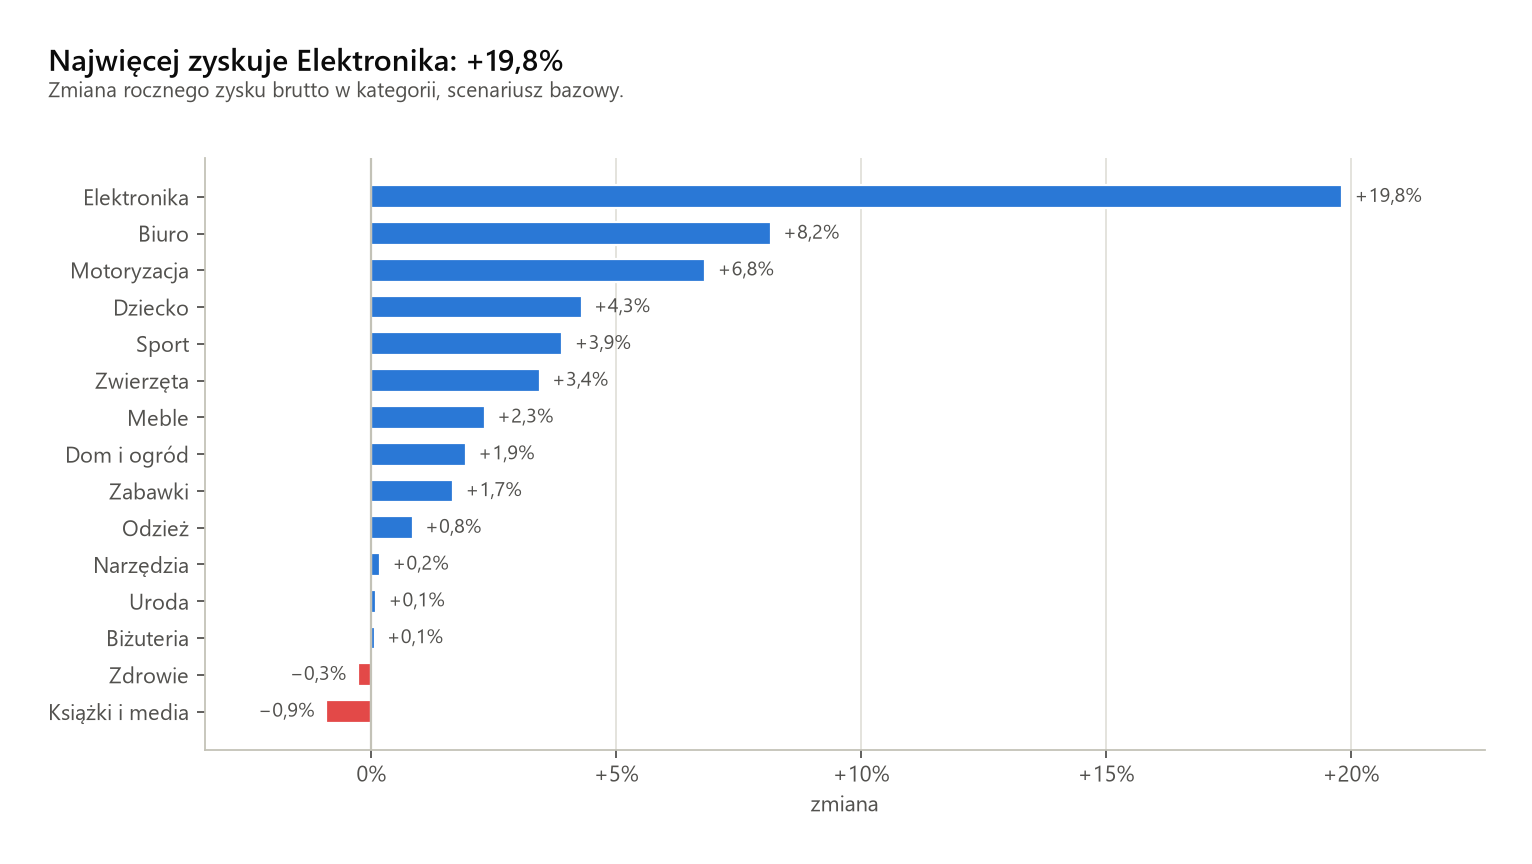
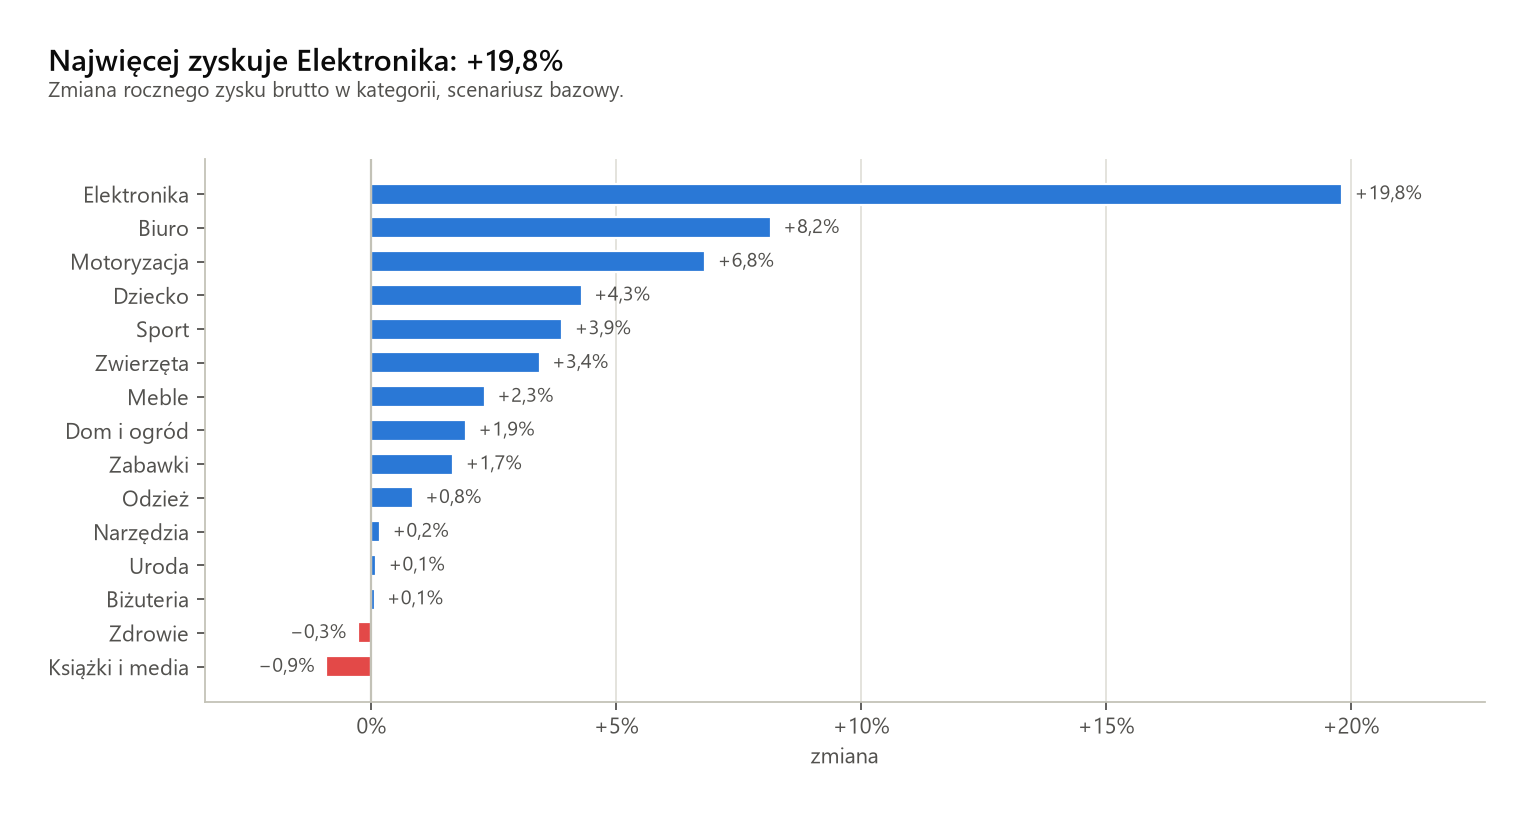
Explain terms on first use in the README

diff --git a/scripts/readme_blocks.py b/scripts/readme_blocks.py
@@ -63,7 +63,7 @@ def blocks(lang, fmt, shop, table, snap, proposals, frame, truth, spread, by_cat
             f"prawdziwej elastyczności ({pct(truth['profit_change'])}) o "
             f"{n(abs(base['profit_change'] - truth['profit_change']) * 100, 1)} pkt proc.; rabaty i zmiany cen razem "
             f"dają średni błąd elastyczności {n(mae['elasticity'], 2)}.\n"
-            f"- **Chybione:** w {len(misses)} kategoriach prawda leży poza 90% przedziałem: {miss_list()}; "
+            f"- **Chybione:** w {len(misses)} kategoriach prawda leży poza przedziałem szacunku: {miss_list()}; "
             f"{pct(1 - within_after, 0, sign=False)} produktów zostaje ponad "
             f"progiem konkurencji, bo jeden krok to za mało albo nie pozwala na to minimalna marża.")
         out["elasticity"] = (
@@ -127,7 +127,8 @@ def blocks(lang, fmt, shop, table, snap, proposals, frame, truth, spread, by_cat
             f"{n(abs(base['profit_change'] - truth['profit_change']) * 100, 1)} points from the profit with the true "
             f"elasticity ({pct(truth['profit_change'])}); discounts and list-price changes together give a mean "
             f"elasticity error of {n(mae['elasticity'], 2)}.\n"
-            f"- **What missed:** in {len(misses)} categories the truth lies outside the 90% interval: {miss_list()}; "
+            f"- **What missed:** in {len(misses)} categories the truth lies outside the estimate's interval: "
+            f"{miss_list()}; "
             f"{pct(1 - within_after, 0, sign=False)} of products stay above the competitor limit, because one step "
             f"is not enough or the minimum margin does not allow it.")
         out["elasticity"] = (

diff --git a/scripts/make_charts.py b/scripts/make_charts.py
@@ -278,7 +278,7 @@ def chart_scenarios(frame: pd.DataFrame, true_profit: float, text: dict, fmt: Fo
 
 def chart_categories(by_category: pd.DataFrame, text: dict, fmt: Format) -> dict:
     t = by_category.sort_values("profit_change").reset_index(drop=True)
-    fig, ax = new_figure(4.2, 0.88)
+    fig, ax = new_figure(3.9, 0.87)
     y = np.arange(len(t))
     colors = np.where(t["profit_change"] >= 0, BLUE, RED)
     ax.barh(y, t["profit_change"], color=colors, height=0.62, edgecolor="white", linewidth=1)
